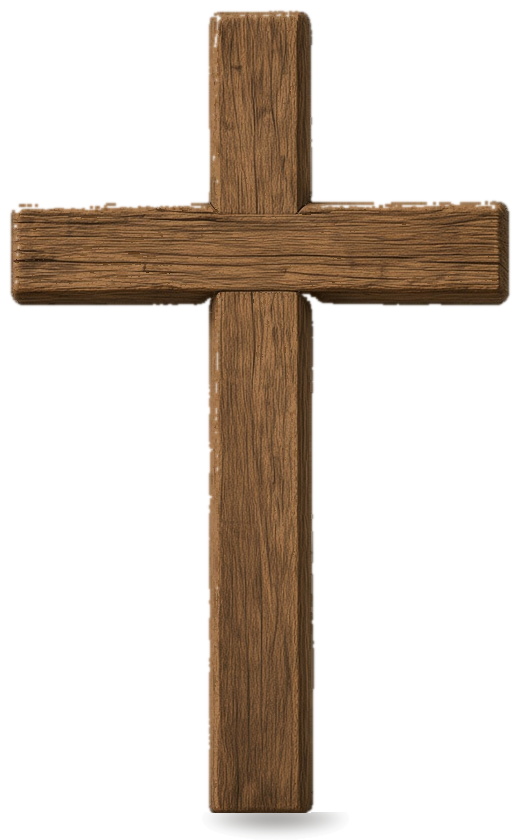
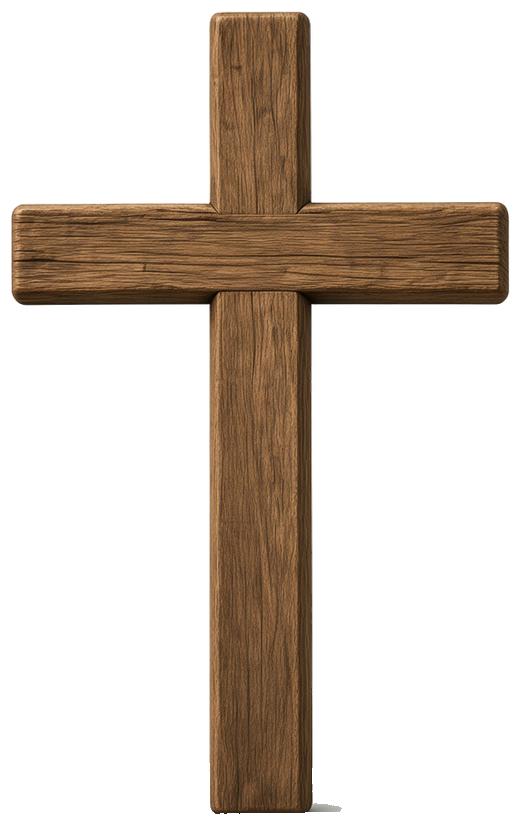
fix(home): restore cross edges; multiply base shadow
Keep original silhouette AA on cross_wood.png and strip only the white
matte ground plate. Draw a soft BlendMode.multiply contact shadow in
Flutter so light stays premium and dark no longer shows a white base fringe.

diff --git a/apps/parable-bloom/lib/features/home/presentation/screens/home_screen.dart b/apps/parable-bloom/lib/features/home/presentation/screens/home_screen.dart
@@ -177,12 +177,7 @@ class _HomeScreenState extends ConsumerState<HomeScreen> {
                           horizontal: 24,
                           vertical: 16,
                         ),
-                        child: Image.asset(
-                          'assets/art/home/cross_wood.png',
-                          fit: BoxFit.contain,
-                          filterQuality: FilterQuality.medium,
-                          semanticLabel: 'Wooden cross',
-                        ),
+                        child: _HomeCrossArtwork(isDark: isDark),
                       ),
                     ),
                   ),
@@ -382,5 +377,59 @@ class _HomeScreenState extends ConsumerState<HomeScreen> {
 
   void _openJournal() {
     context.push('/journal');
+  }
+}
+
+/// Wooden cross with a soft multiply ground shadow so light and dark both read
+/// cleanly (the PNG keeps original silhouette AA; the old white matte plate is
+/// stripped from the asset).
+class _HomeCrossArtwork extends StatelessWidget {
+  const _HomeCrossArtwork({required this.isDark});
+
+  final bool isDark;
+
+  @override
+  Widget build(BuildContext context) {
+    return CustomPaint(
+      painter: _CrossGroundShadowPainter(isDark: isDark),
+      child: Image.asset(
+        'assets/art/home/cross_wood.png',
+        fit: BoxFit.contain,
+        filterQuality: FilterQuality.medium,
+        semanticLabel: 'Wooden cross',
+      ),
+    );
+  }
+}
+
+/// Soft elliptical contact shadow under the cross, multiplied into the Home
+/// backdrop so it darkens cream and night soil instead of painting a white matte.
+class _CrossGroundShadowPainter extends CustomPainter {
+  const _CrossGroundShadowPainter({required this.isDark});
+
+  final bool isDark;
+
+  @override
+  void paint(Canvas canvas, Size size) {
+    // Anchor near the foot of the contained cross image.
+    final center = Offset(size.width * 0.52, size.height * 0.90);
+    final radii = Offset(size.width * 0.28, size.height * 0.045);
+    final rect = Rect.fromCenter(
+      center: center,
+      width: radii.dx * 2,
+      height: radii.dy * 2,
+    );
+
+    final paint = Paint()
+      ..blendMode = BlendMode.multiply
+      ..color = Color.fromRGBO(18, 14, 10, isDark ? 0.72 : 0.38)
+      ..maskFilter = const MaskFilter.blur(BlurStyle.normal, 10);
+
+    canvas.drawOval(rect, paint);
+  }
+
+  @override
+  bool shouldRepaint(covariant _CrossGroundShadowPainter oldDelegate) {
+    return oldDelegate.isDark != isDark;
   }
 }

diff --git a/CHANGELOG.md b/CHANGELOG.md
@@ -40,7 +40,7 @@ and this project adheres to [Semantic Versioning](https://semver.org/spec/v2.0.0
 
 ### Fixed
 
-- Home wooden cross (`assets/art/home/cross_wood.png`): removed white-matte cutout fringe/halo on silhouette edges and replaced the unclean light base blob with a soft dark ground shadow so light and dark Home backdrops composite cleanly.
+- Home wooden cross: restored original light-quality silhouette AA on `cross_wood.png`, stripped only the white matte ground plate, and draw a soft `BlendMode.multiply` contact shadow in Flutter so light stays clean and dark no longer shows a white base fringe.
 - macOS & iOS builds: completed the Swift Package Manager migration on **both platforms** (all plugins resolve via SPM; `Podfile`/`Pods`/pod xcconfig includes removed). The old iOS `Podfile` hook forced deployment targets per pod (the project sets 16.0 natively); the old macOS hook forced `MACOSX_DEPLOYMENT_TARGET = 11.0`, rejected by modern Xcode. The `flutterfire upload-crashlytics-symbols` phase now locates the SwiftPM `firebase-ios-sdk` checkout that matches Flutter's build layout and skips gracefully when it is absent, instead of failing the build.
 
 
